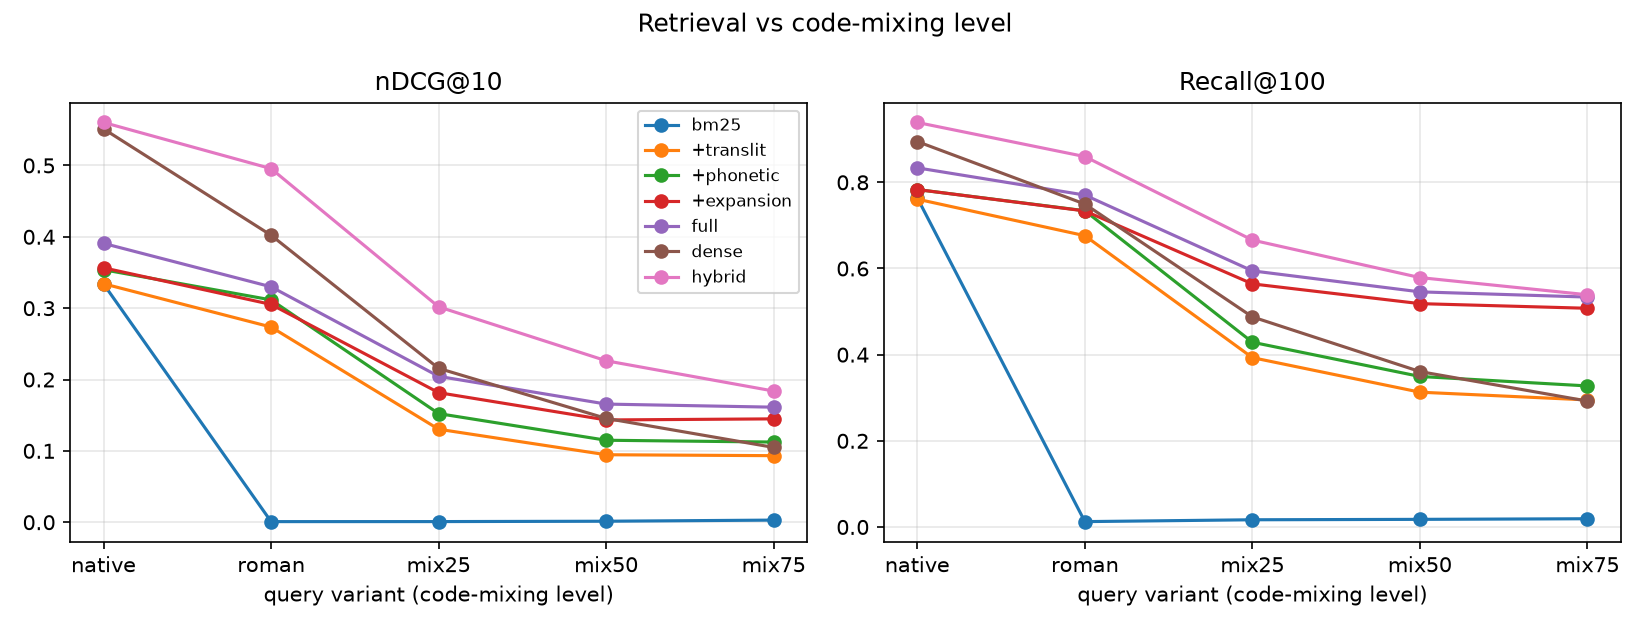
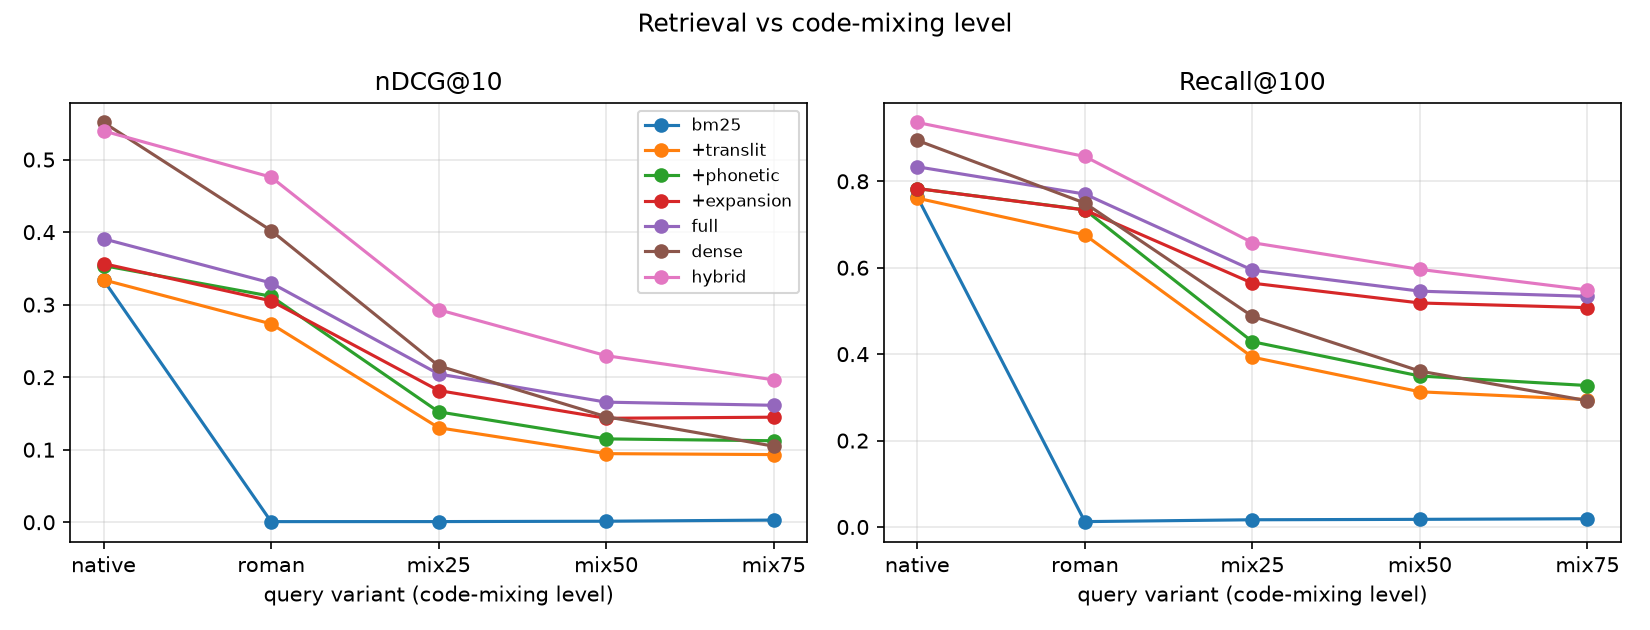
Paper-settings BM25 sanity rows; fix hybrid tuning; regenerate results
- sanity check now reports native BM25 with k1=1.2/b=0.75 and the MIRACL paper's
  k1=0.9/b=0.4, each with and without stemming (results/sanity_*.csv)
- fix: hybrid tuning used BM25 weights read from an on-disk tuned.json (absent on the
  first run, so it tuned on untuned defaults). Tuning now uses the weights it just
  chose; verified from scratch. Hybrid w_dense 1.0 -> 0.75.
- regenerated main results: only the hybrid rows change; dense-only now edges the
  hybrid on native queries, README finding 5 corrected

diff --git a/src/eval.py b/src/eval.py
@@ -15,7 +15,7 @@ from src.config import ROOT, load_config, path, seed_everything
 from src.data import add_mode_flags, apply_mode, load_corpus, load_qrels
 from src.fusion import rrf
 from src.metrics import evaluate_run, randomisation_test
-from src.pipeline import SYSTEMS, Searcher, system_config
+from src.pipeline import DEFAULTS, SYSTEMS, Searcher, system_config
 from src.variants import load_variants, queries_for
 
 RESULTS = ROOT / "results"
@@ -74,9 +74,11 @@ class Evaluator:
             self._cache[key] = {q: [d for d, _ in r] for q, r in zip(qs, res)}
         return self._cache[key]
 
-    def hybrid_run(self, split, variant, p: dict | None = None) -> dict[str, list[str]]:
+    def hybrid_run(self, split, variant, p: dict | None = None,
+                   bm25_cfg="full") -> dict[str, list[str]]:
+        """bm25_cfg: the BM25 side; tuning passes the weights it just chose explicitly."""
         p = p or tuned().get("hybrid", {"k": 60, "w_dense": 1.0, "dense_text": "raw"})
-        a = self.bm25_run("full", split, variant)
+        a = self.bm25_run(bm25_cfg, split, variant)
         b = self.dense_run(split, variant, p["dense_text"])
         return {q: [d for d, _ in rrf([a[q], b.get(q, [])], [1.0, p["w_dense"]], k=p["k"])] for q in a}
 
@@ -140,13 +142,27 @@ def plot_degradation(df, name, title):
 
 # ------------------------------------------------------------------ commands
 def cmd_sanity(ev: Evaluator):
-    r = ev.score(ev.bm25_run("bm25", "dev", "native"), "dev")["mean"]
-    lines = [f"mode={ev.mode} native BM25 (k1=1.2,b=0.75) dev: "
-             + ", ".join(f"{k}={v:.3f}" for k, v in r.items()),
-             "MIRACL paper (Zhang et al. 2023) BM25 hi dev: nDCG@10=0.458, Recall@100=0.868 "
-             "(full corpus, Lucene Hindi analyser, k1=0.9 b=0.4)"]
+    """Native-script BM25 on dev: our default settings, and the MIRACL paper's k1/b."""
+    from src.variants import queries_for
+
+    qs = queries_for("dev", "native")
+    paper = Searcher(ev.mode, index=ev.s.index, k1=0.9, b=0.4)
+    setups = [("k1=1.2 b=0.75, no stemming (our default)", ev.s, "bm25"),
+              ("k1=1.2 b=0.75, stemming", ev.s, {"stemming": True}),
+              ("k1=0.9 b=0.4, no stemming (paper k1/b)", paper, "bm25"),
+              ("k1=0.9 b=0.4, stemming (paper k1/b)", paper, {"stemming": True})]
+    rows, lines = [], [f"mode={ev.mode}: native-script BM25 on MIRACL-hi dev ({len(qs)} queries)"]
+    for label, searcher, system in setups:
+        run = {q: [d for d, _ in searcher.search(t, system, 100)[1]] for q, t in qs.items()}
+        m = ev.score(run, "dev")["mean"]
+        rows.append({"setup": label, **m})
+        lines.append(f"  {label:42s} nDCG@10={m['nDCG@10']:.3f} Recall@100={m['Recall@100']:.3f}")
+    lines.append("  MIRACL paper (Zhang et al. 2023), BM25 hi dev  nDCG@10=0.458 Recall@100=0.868"
+                 " (Anserini, Lucene Hindi analyser, k1=0.9 b=0.4)")
     print("\n".join(lines))
     path("results", f"sanity_{ev.mode}.txt").write_text("\n".join(lines) + "\n")
+    pd.DataFrame(rows).to_csv(path("results", f"sanity_{ev.mode}.csv"), index=False,
+                              float_format="%.4f")
 
 
 def cmd_baseline(ev: Evaluator):
@@ -160,7 +176,7 @@ def cmd_tune(ev: Evaluator):
     def obj(fn):
         return float(np.mean([ev.score(fn(v), "train")["mean"]["nDCG@10"] for v in LEVELS]))
 
-    best = {k: system_config("full")[k] for k in
+    best = {k: {**DEFAULTS, **SYSTEMS["full"]}[k] for k in
             ("phon_weight", "latin_keep_weight", "expansion_weight", "translit_top2_weight")}
     best.setdefault("translit_top2_weight", 0.0)
     grid = {"latin_keep_weight": [0.0, 0.3, 0.6, 1.0], "phon_weight": [0.0, 0.1, 0.2, 0.3, 0.5],
@@ -170,17 +186,19 @@ def cmd_tune(ev: Evaluator):
         for param, values in grid.items():
             scores = {}
             for val in values:
-                cfg = {**SYSTEMS["full"], **best, param: val}
+                cfg = {**DEFAULTS, **SYSTEMS["full"], **best, param: val}
                 scores[val] = obj(lambda v: ev.bm25_run(cfg, "train", v))
                 log.append({"stage": "bm25", "param": param, "value": val, "nDCG@10": scores[val]})
                 print(f"  {param}={val}: {scores[val]:.4f}", flush=True)
             best[param] = max(scores, key=scores.get)
+    # hybrid is tuned on top of the BM25 weights chosen above, never on tuned.json from disk
+    full_cfg = {**DEFAULTS, **SYSTEMS["full"], **best}
     hy, hy_scores = None, {}
     for text in ["raw", "deva"]:
         for k in [10, 30, 60, 100]:
             for w in [0.25, 0.5, 0.75, 1.0, 1.5, 2.0]:
                 p = {"k": k, "w_dense": w, "dense_text": text}
-                sc = obj(lambda v: ev.hybrid_run("train", v, p))
+                sc = obj(lambda v: ev.hybrid_run("train", v, p, bm25_cfg=full_cfg))
                 log.append({"stage": "hybrid", "param": json.dumps(p), "value": None, "nDCG@10": sc})
                 hy_scores[json.dumps(p)] = sc
     hy = json.loads(max(hy_scores, key=hy_scores.get))

diff --git a/src/pipeline.py b/src/pipeline.py
@@ -64,13 +64,15 @@ class QueryRepr:
 
 
 class Searcher:
-    def __init__(self, mode: str | None = None, index: InvertedIndex | None = None):
+    def __init__(self, mode: str | None = None, index: InvertedIndex | None = None,
+                 k1: float | None = None, b: float | None = None):
         from src.build_index import index_path
 
         cfg = load_config()
         self.mode = mode or corpus_mode()
         self.index = index or InvertedIndex.load(index_path(self.mode))
-        k1, b = cfg["bm25"]["k1"], cfg["bm25"]["b"]
+        k1 = cfg["bm25"]["k1"] if k1 is None else k1
+        b = cfg["bm25"]["b"] if b is None else b
         self.bm25 = {f: BM25(ix, k1, b) for f, ix in self.index.fields.items()}
 
     # ---- query side -------------------------------------------------

diff --git a/tests/test_normalise.py b/tests/test_normalise.py
@@ -27,3 +27,10 @@ def test_pipeline_baseline_on_toy_index():
     s = Searcher(index=InvertedIndex(["d0", "d1"], fields))
     _, hits = s.search("गंगा नदी", "bm25", k=2)
     assert hits[0][0] == "d1"
+
+
+def test_searcher_accepts_bm25_parameters():
+    docs = [["भारत", "राजधानी"], ["गंगा", "नदी"]]
+    fields = {f: FieldIndex.build(docs) for f in ("tok", "stem", "phon")}
+    s = Searcher(index=InvertedIndex(["d0", "d1"], fields), k1=0.9, b=0.4)
+    assert all(m.k1 == 0.9 and m.b == 0.4 for m in s.bm25.values())

diff --git a/README.md b/README.md
@@ -106,8 +106,11 @@ All numbers are on the 350 MIRACL-hi **dev** queries. Weights were tuned on trai
 4. **Dense and lexical retrieval fail differently.** e5-small is the strongest single
    system on native queries (0.551) but degrades fastest with English mixing
    (0.105 at mix75, below full BM25's 0.161).
-5. **The hybrid is best on every variant on both corpora** (full corpus: 0.560 native,
-   0.496 roman, 0.184 mix75). The gain over BM25 is significant everywhere (p < 0.001).
+5. **The hybrid is best on every non-native variant on both corpora** (full corpus:
+   0.476 roman, 0.293 mix25, 0.196 mix75). On native queries dense-only is slightly
+   ahead (0.551 vs 0.539). The fusion weight tuned on train (w_dense = 0.75) gives up a
+   little native accuracy for robustness to code-mixing. The hybrid's gain over BM25 is
+   significant on every variant (p < 0.001). Hybrid vs dense was not tested.
 6. **Not every component helps everywhere (ablation).** Transliteration is essential: without
    it, roman drops from 0.330 to 0.029. Stemming and phonetic keys help on every variant.
    But expansion *hurts* pure-roman queries on the full corpus (removing it gives roman
@@ -115,10 +118,12 @@ All numbers are on the 350 MIRACL-hi **dev** queries. Weights were tuned on trai
    tags romanised Hindi as English and adds wrong Hindi words. Query-side stop-word removal
    also hurts slightly on most variants. A per-query decision on whether to expand is the
    obvious next step.
-7. **Sanity check.** Native BM25 on the full corpus (k1 = 1.2, b = 0.75) gives 0.334
-   against 0.458 in the MIRACL paper. With the paper's k1 = 0.9, b = 0.4 plus our stemmer
-   we measured 0.418. The remaining gap is attributed to Lucene's Hindi analyser
-   (normaliser, stemmer, stop words removed from documents). See Limitations.
+7. **Sanity check.** Native BM25 on the full corpus (k1 = 1.2, b = 0.75, no stemming) gives
+   nDCG@10 0.334 against 0.458 in the MIRACL paper. The paper's k1 = 0.9, b = 0.4 alone
+   gives 0.381. Adding our stemmer gives 0.420 (Recall@100 0.821 vs 0.868). We attribute the
+   remaining gap to Lucene's Hindi analyser (normaliser, stemmer, stop words removed from
+   documents). This is plausible but was not tested. All four setups are in
+   `results/sanity_full.csv`. See Limitations.
 
 The tables below are generated from the CSVs by `scripts/render_results.py`.
 
@@ -128,8 +133,12 @@ The tables below are generated from the CSVs by `scripts/render_results.py`.
 Sanity check:
 
 ```
-mode=full native BM25 (k1=1.2,b=0.75) dev: P@5=0.143, P@10=0.099, R@10=0.440, F1@10=0.151, Recall@100=0.764, nDCG@10=0.334, MRR@10=0.354
-MIRACL paper (Zhang et al. 2023) BM25 hi dev: nDCG@10=0.458, Recall@100=0.868 (full corpus, Lucene Hindi analyser, k1=0.9 b=0.4)
+mode=full: native-script BM25 on MIRACL-hi dev (350 queries)
+  k1=1.2 b=0.75, no stemming (our default)   nDCG@10=0.334 Recall@100=0.764
+  k1=1.2 b=0.75, stemming                    nDCG@10=0.372 Recall@100=0.788
+  k1=0.9 b=0.4, no stemming (paper k1/b)     nDCG@10=0.381 Recall@100=0.789
+  k1=0.9 b=0.4, stemming (paper k1/b)        nDCG@10=0.420 Recall@100=0.821
+  MIRACL paper (Zhang et al. 2023), BM25 hi dev  nDCG@10=0.458 Recall@100=0.868 (Anserini, Lucene Hindi analyser, k1=0.9 b=0.4)
 ```
 
 **nDCG@10** (best per column in bold)
@@ -141,8 +150,8 @@ MIRACL paper (Zhang et al. 2023) BM25 hi dev: nDCG@10=0.458, Recall@100=0.868 (f
 | +phonetic | 0.354 | 0.312 | 0.152 | 0.115 | 0.112 | 0.280 |
 | +expansion | 0.356 | 0.305 | 0.182 | 0.143 | 0.145 | 0.254 |
 | full | 0.391 | 0.330 | 0.204 | 0.166 | 0.161 | 0.274 |
-| dense | 0.551 | 0.402 | 0.216 | 0.145 | 0.105 | 0.309 |
-| hybrid | **0.560** | **0.495** | **0.302** | **0.226** | **0.184** | **0.406** |
+| dense | **0.551** | 0.402 | 0.216 | 0.145 | 0.105 | 0.309 |
+| hybrid | 0.539 | **0.476** | **0.293** | **0.230** | **0.196** | **0.393** |
 
 **Recall@100** (best per column in bold)
 
@@ -154,7 +163,7 @@ MIRACL paper (Zhang et al. 2023) BM25 hi dev: nDCG@10=0.458, Recall@100=0.868 (f
 | +expansion | 0.783 | 0.734 | 0.564 | 0.518 | 0.508 | 0.662 |
 | full | 0.834 | 0.770 | 0.595 | 0.546 | 0.534 | 0.703 |
 | dense | 0.895 | 0.750 | 0.488 | 0.361 | 0.292 | 0.656 |
-| hybrid | **0.939** | **0.860** | **0.666** | **0.579** | **0.539** | **0.820** |
+| hybrid | **0.936** | **0.857** | **0.658** | **0.596** | **0.549** | **0.814** |
 
 ![degradation](results/degradation_full.png)
 
@@ -174,7 +183,7 @@ MIRACL paper (Zhang et al. 2023) BM25 hi dev: nDCG@10=0.458, Recall@100=0.868 (f
 | system vs bm25 | native | roman | mix25 | mix50 | mix75 | roman_rule |
 |---|---|---|---|---|---|---|
 | full | +0.057 (p=0.0001) | +0.329 (p=0.0001) | +0.203 (p=0.0001) | +0.164 (p=0.0001) | +0.158 (p=0.0001) | +0.274 (p=0.0001) |
-| hybrid | +0.226 (p=0.0001) | +0.495 (p=0.0001) | +0.301 (p=0.0001) | +0.225 (p=0.0001) | +0.181 (p=0.0001) | +0.406 (p=0.0001) |
+| hybrid | +0.206 (p=0.0001) | +0.475 (p=0.0001) | +0.292 (p=0.0001) | +0.228 (p=0.0001) | +0.193 (p=0.0001) | +0.393 (p=0.0001) |
 
 Other metrics (P@5, P@10, F1@10, MRR@10, R@10): `results/main_long_full.csv`. Failure analysis: `results/failures_full.md`.
 
@@ -183,8 +192,12 @@ Other metrics (P@5, P@10, F1@10, MRR@10, R@10): `results/main_long_full.csv`. Fa
 Sanity check:
 
 ```
-mode=sample native BM25 (k1=1.2,b=0.75) dev: P@5=0.202, P@10=0.142, R@10=0.647, F1@10=0.219, Recall@100=0.876, nDCG@10=0.461, MRR@10=0.442
-MIRACL paper (Zhang et al. 2023) BM25 hi dev: nDCG@10=0.458, Recall@100=0.868 (full corpus, Lucene Hindi analyser, k1=0.9 b=0.4)
+mode=sample: native-script BM25 on MIRACL-hi dev (350 queries)
+  k1=1.2 b=0.75, no stemming (our default)   nDCG@10=0.461 Recall@100=0.876
+  k1=1.2 b=0.75, stemming                    nDCG@10=0.495 Recall@100=0.913
+  k1=0.9 b=0.4, no stemming (paper k1/b)     nDCG@10=0.482 Recall@100=0.888
+  k1=0.9 b=0.4, stemming (paper k1/b)        nDCG@10=0.522 Recall@100=0.919
+  MIRACL paper (Zhang et al. 2023), BM25 hi dev  nDCG@10=0.458 Recall@100=0.868 (Anserini, Lucene Hindi analyser, k1=0.9 b=0.4)
 ```
 
 **nDCG@10** (best per column in bold)
@@ -196,8 +209,8 @@ MIRACL paper (Zhang et al. 2023) BM25 hi dev: nDCG@10=0.458, Recall@100=0.868 (f
 | +phonetic | 0.478 | 0.443 | 0.264 | 0.200 | 0.193 | 0.406 |
 | +expansion | 0.480 | 0.436 | 0.311 | 0.266 | 0.259 | 0.398 |
 | full | 0.513 | 0.468 | 0.328 | 0.287 | 0.284 | 0.433 |
-| dense | 0.642 | 0.531 | 0.331 | 0.239 | 0.168 | 0.449 |
-| hybrid | **0.652** | **0.596** | **0.459** | **0.389** | **0.346** | **0.537** |
+| dense | **0.642** | 0.531 | 0.331 | 0.239 | 0.168 | 0.449 |
+| hybrid | 0.636 | **0.591** | **0.462** | **0.399** | **0.363** | **0.534** |
 
 **Recall@100** (best per column in bold)
 
@@ -207,9 +220,9 @@ MIRACL paper (Zhang et al. 2023) BM25 hi dev: nDCG@10=0.458, Recall@100=0.868 (f
 | +translit | 0.876 | 0.822 | 0.551 | 0.464 | 0.431 | 0.755 |
 | +phonetic | 0.891 | 0.863 | 0.593 | 0.503 | 0.463 | 0.835 |
 | +expansion | 0.891 | 0.865 | 0.785 | 0.770 | 0.746 | 0.828 |
-| full | 0.924 | 0.903 | 0.820 | 0.790 | **0.766** | 0.856 |
+| full | 0.924 | 0.903 | 0.820 | 0.790 | 0.766 | 0.856 |
 | dense | 0.971 | 0.880 | 0.648 | 0.525 | 0.454 | 0.814 |
-| hybrid | **0.991** | **0.966** | **0.841** | **0.797** | 0.764 | **0.946** |
+| hybrid | **0.989** | **0.968** | **0.851** | **0.807** | **0.774** | **0.946** |
 
 ![degradation](results/degradation_sample.png)
 
@@ -229,7 +242,7 @@ MIRACL paper (Zhang et al. 2023) BM25 hi dev: nDCG@10=0.458, Recall@100=0.868 (f
 | system vs bm25 | native | roman | mix25 | mix50 | mix75 | roman_rule |
 |---|---|---|---|---|---|---|
 | full | +0.052 (p=0.0001) | +0.463 (p=0.0001) | +0.320 (p=0.0001) | +0.279 (p=0.0001) | +0.275 (p=0.0001) | +0.430 (p=0.0001) |
-| hybrid | +0.191 (p=0.0001) | +0.591 (p=0.0001) | +0.451 (p=0.0001) | +0.380 (p=0.0001) | +0.336 (p=0.0001) | +0.535 (p=0.0001) |
+| hybrid | +0.175 (p=0.0001) | +0.586 (p=0.0001) | +0.454 (p=0.0001) | +0.390 (p=0.0001) | +0.354 (p=0.0001) | +0.532 (p=0.0001) |
 
 Other metrics (P@5, P@10, F1@10, MRR@10, R@10): `results/main_long_sample.csv`. Failure analysis: `results/failures_sample.md`.
 <!-- results:end -->
